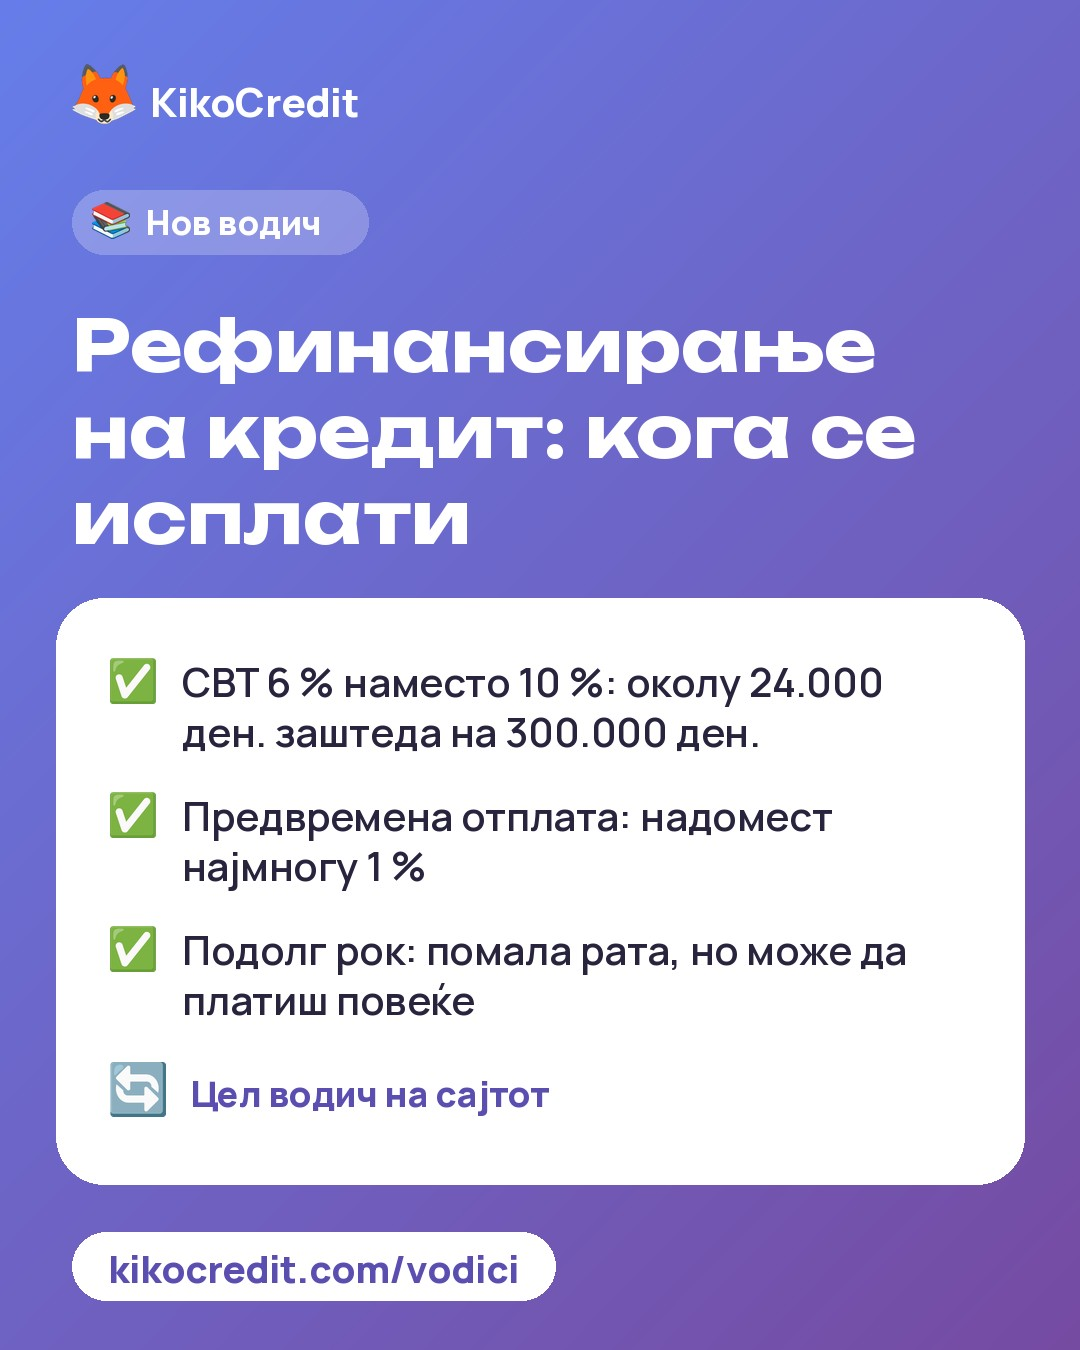
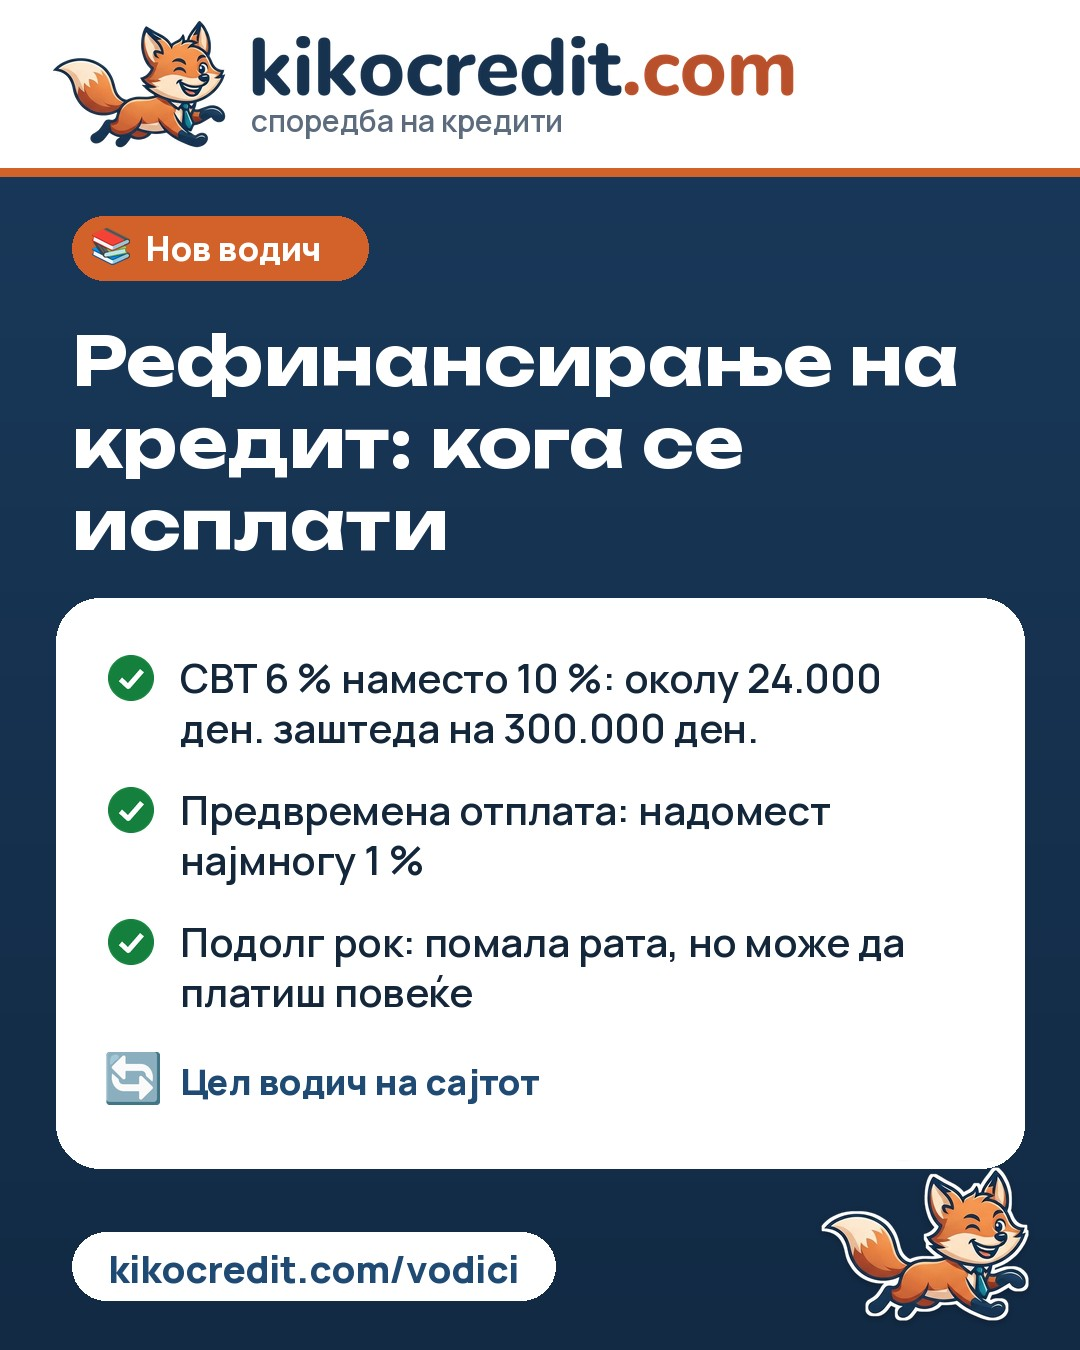
Нов изглед на сликите за мрежите: маскота Кико, kikocredit.com, тегет и портокалова
- tools/make_guide_image.py: истите параметри, нов изглед како сајтот.
- tools/assets: маскотата, налепница со бел раб, името.
- Петте објави што чекаат (22.11–27.11) се прецртани со истиот текст.

Claude-Session: https://claude.ai/code/session_01BRyZofRM6J8YULqXWHTjp2

diff --git a/tools/make_guide_image.py b/tools/make_guide_image.py
@@ -1,4 +1,5 @@
-"""Слика 1080×1350 за споделување на нов водич од kikocredit.com/vodici/ (стил „Кико“).
+"""Слика 1080×1350 за Facebook/Instagram во изгледот на kikocredit.com (од 22.11.2026):
+маскотата Кико + името kikocredit.com на бела лента, тегет позадина, бела картичка со точките.
 
 Употреба:
   python3 tools/make_guide_image.py \
@@ -10,14 +11,20 @@
 За актуелни објави (не водич): --kicker "Актуелно" --kicker-icon "🗞" --url "kikocredit.com"
 --cta "<кратка порака>"; до 4 точки.
 Фонтови: tools/fonts (Manrope, Unbounded — SIL OFL) и Noto Color Emoji.
+Лого: tools/assets (kiko.png — маскотата, kiko-sticker.png — со бел раб за темна позадина,
+wordmark.png — името). Боите се исти како во src/brand.js на сајтот.
 """
 import argparse, os
 from PIL import Image, ImageDraw, ImageFont
 
 W, H = 1080, 1350
-C1, C2 = (0x66, 0x7e, 0xea), (0x76, 0x4b, 0xa2)
-INK, MUTED, ACC = (40, 36, 62), (110, 104, 140), (0x5a, 0x4f, 0xb0)
-FD = os.path.join(os.path.dirname(os.path.abspath(__file__)), 'fonts')
+NAVY, NAVY2 = (0x1A, 0x3A, 0x5C), (0x12, 0x2A, 0x44)      # тегет позадина (благ премин)
+INK, MUTED, ACC = (0x14, 0x26, 0x3A), (0x5C, 0x6B, 0x7E), (0x1E, 0x4A, 0x73)
+ORANGE, GREEN = (0xD2, 0x62, 0x2A), (0x15, 0x80, 0x3D)
+BAND = 168                                                  # бела лента со логото
+HERE = os.path.dirname(os.path.abspath(__file__))
+FD = os.path.join(HERE, 'fonts')
+AS = os.path.join(HERE, 'assets')
 EMOJI_FONT = '/usr/share/fonts/truetype/noto/NotoColorEmoji.ttf'
 
 
@@ -45,6 +52,22 @@ def emoji(ch, size):
     return im.resize((max(1, int(im.width * r)), max(1, int(im.height * r))), Image.LANCZOS)
 
 
+def asset(name, height):
+    im = Image.open(os.path.join(AS, name)).convert('RGBA')
+    return im.resize((max(1, round(im.width * height / im.height)), height), Image.LANCZOS)
+
+
+def check(size):
+    """Зелено крукче со бел знак ✓ (наместо емоџи)."""
+    k = 4
+    im = Image.new('RGBA', (size * k, size * k), (0, 0, 0, 0))
+    d = ImageDraw.Draw(im)
+    d.ellipse((0, 0, size * k - 1, size * k - 1), fill=GREEN + (255,))
+    s = size * k
+    d.line([(s * .27, s * .53), (s * .44, s * .69), (s * .74, s * .34)], fill='white', width=int(s * .11), joint='curve')
+    return im.resize((size, size), Image.LANCZOS)
+
+
 def wrap(d, text, f, maxw):
     lines, cur = [], ''
     for w in text.split(' '):
@@ -60,14 +83,21 @@ def wrap(d, text, f, maxw):
 
 def base():
     img = Image.new('RGB', (W, H))
-    px = img.load()
+    d = ImageDraw.Draw(img)
     for y in range(H):
-        for x in range(W):
-            t = x / W * 0.45 + y / H * 0.55
-            px[x, y] = tuple(int(C1[i] + (C2[i] - C1[i]) * t) for i in range(3))
+        t = y / H
+        d.line([(0, y), (W, y)], fill=tuple(int(NAVY[i] + (NAVY2[i] - NAVY[i]) * t) for i in range(3)))
     img = img.convert('RGBA')
-    img.alpha_composite(emoji('🦊', 64), (72, 64))
-    ImageDraw.Draw(img).text((150, 74), 'KikoCredit', font=B(40), fill='white')
+    d = ImageDraw.Draw(img)
+    # бела лента: маскотата + името + „споредба на кредити“
+    d.rectangle((0, 0, W, BAND), fill='white')
+    d.rectangle((0, BAND, W, BAND + 8), fill=ORANGE)
+    m = asset('kiko.png', 128)
+    img.alpha_composite(m, (52, 20))
+    wm = asset('wordmark.png', 60)
+    x = 52 + m.width + 22
+    img.alpha_composite(wm, (x, 36))
+    ImageDraw.Draw(img).text((x + 3, 100), 'споредба на кредити', font=M(30), fill=MUTED)
     return img
 
 
@@ -81,49 +111,58 @@ def make(title, points, icon, out, kicker='Нов водич', url='kikocredit.c
          kicker_icon='📚', cta='Цел водич на сајтот'):
     img = base()
     d = ImageDraw.Draw(img)
-    # ознака „📚 Нов водич“
+    # ознака „📚 Нов водич“ / „🗞 Актуелно“
     kw = d.textlength(kicker, font=B(34)) + 120
-    rounded(img, (72, 190, 72 + kw, 254), 32, (255, 255, 255, 60))
-    img.alpha_composite(emoji(kicker_icon, 38), (92, 202))
+    rounded(img, (72, 216, 72 + kw, 280), 32, ORANGE + (255,))
+    img.alpha_composite(emoji(kicker_icon, 38), (92, 228))
     d = ImageDraw.Draw(img)
-    d.text((146, 198), kicker, font=B(34), fill='white')
+    d.text((146, 224), kicker, font=B(34), fill='white')
     # наслов (автоматски помал фонт ако е долг)
-    size = 72
-    while size > 50 and len(wrap(d, title, H1(size), 936)) > 4:
+    size = 68
+    while size > 48 and len(wrap(d, title, H1(size), 936)) > 4:
         size -= 4
-    y = 300
+    y = 318
     for ln in wrap(d, title, H1(size), 936):
         d.text((72, y), ln, font=H1(size), fill='white')
         y += size + 14
     # бела картичка со клучните точки
-    top = y + 40
+    top = y + 34
+    ck = check(46)
 
     def body(im, dd, yy):
         for p in points:
-            im.alpha_composite(emoji('✅', 46), (110, yy + 4))
+            im.alpha_composite(ck, (108, yy + 5))
             dd = ImageDraw.Draw(im)
             ly = yy
             for ln in wrap(dd, p, M(40), 780):
-                dd.text((182, ly), ln, font=M(40), fill=INK)
+                dd.text((180, ly), ln, font=M(40), fill=INK)
                 ly += 50
-            yy = ly + 34
-        ic = emoji(icon, 56)
-        im.alpha_composite(ic, (110, yy + 6))
+            yy = ly + 32
+        ic = emoji(icon, 54)
+        im.alpha_composite(ic, (106, yy + 6))
         dd = ImageDraw.Draw(im)
-        dd.text((190, yy + 12), cta, font=B(36), fill=ACC)
-        return yy + 72
+        dd.text((180, yy + 10), cta, font=B(36), fill=ACC)
+        return yy + 70
 
     probe = img.copy()
-    end = body(probe, ImageDraw.Draw(probe), top + 56)
-    if end + 56 > H - 150:
-        raise SystemExit(f'Премногу текст: картичката завршува на {end + 56}px (макс. {H - 150}). Скрати ги точките.')
-    rounded(img, (56, top, W - 56, end + 56), 48, (255, 255, 255, 255))
-    body(img, ImageDraw.Draw(img), top + 56)
+    end = body(probe, ImageDraw.Draw(probe), top + 52)
+    if end + 52 > H - 150:
+        raise SystemExit(f'Премногу текст: картичката завршува на {end + 52}px (макс. {H - 150}). Скрати ги точките.')
+    rounded(img, (56, top, W - 56, end + 52), 44, (255, 255, 255, 255))
+    body(img, ImageDraw.Draw(img), top + 52)
+    bottom = end + 52
     # копче со адресата
     d = ImageDraw.Draw(img)
     pw = d.textlength(url, font=B(38)) + 72
     rounded(img, (72, H - 118, 72 + pw, H - 50), 34, (255, 255, 255, 255))
     ImageDraw.Draw(img).text((108, H - 108), url, font=B(38), fill=ACC)
+    # Кико долу десно: поголем кога има место под картичката
+    room = H - bottom
+    sh = 300 if room >= 330 else 230 if room >= 250 else 168
+    st = asset('kiko-sticker.png', sh)
+    sx = max(int(72 + pw + 24), W - 44 - st.width)
+    if sx + st.width <= W - 8:
+        img.alpha_composite(st, (sx, H - 22 - st.height))
     os.makedirs(os.path.dirname(os.path.abspath(out)), exist_ok=True)
     img.convert('RGB').save(out, quality=90, optimize=True)
     print('saved', out)

diff --git a/README.md b/README.md
@@ -45,3 +45,16 @@
 не за објавувањето на сајтот. Редовниот распоред го исполнува тоа (водич во недела околу 11 ч.,
 редовни објави вт/чт/нед во 18:57). Секоја дополнителна или поместена објава се закажува така
 што до претходната и до следната има најмалку 6 часа; ако за тој ден нема место, оди на друг ден.
+
+## Изглед на сликите (од 22.11.2026)
+Сликите за Facebook и Instagram се во истиот изглед како сајтот: маскотата Кико (лисица што
+трча) и името `kikocredit.com` на бела лента горе, тегет позадина, портокалова ознака, бела
+картичка со точките и Кико долу десно.
+- Се прават со `tools/make_guide_image.py` (истите параметри како досега).
+- Лого-фајлови: `tools/assets/kiko.png` (маскотата, за светла позадина),
+  `tools/assets/kiko-sticker.png` (со бел раб, за темна позадина), `tools/assets/wordmark.png`
+  (името; `wordmark-light.png` за темна позадина). Маскотата не се црта на темна позадина без
+  белиот раб — контурата ѝ е тегет.
+- Боите се исти како `BRAND` во `src/brand.js` на гранката `main`.
+- `make_posts.py` и `make_alta.py` се стари серии во виолетовиот изглед; не се користат за нови објави.
+
